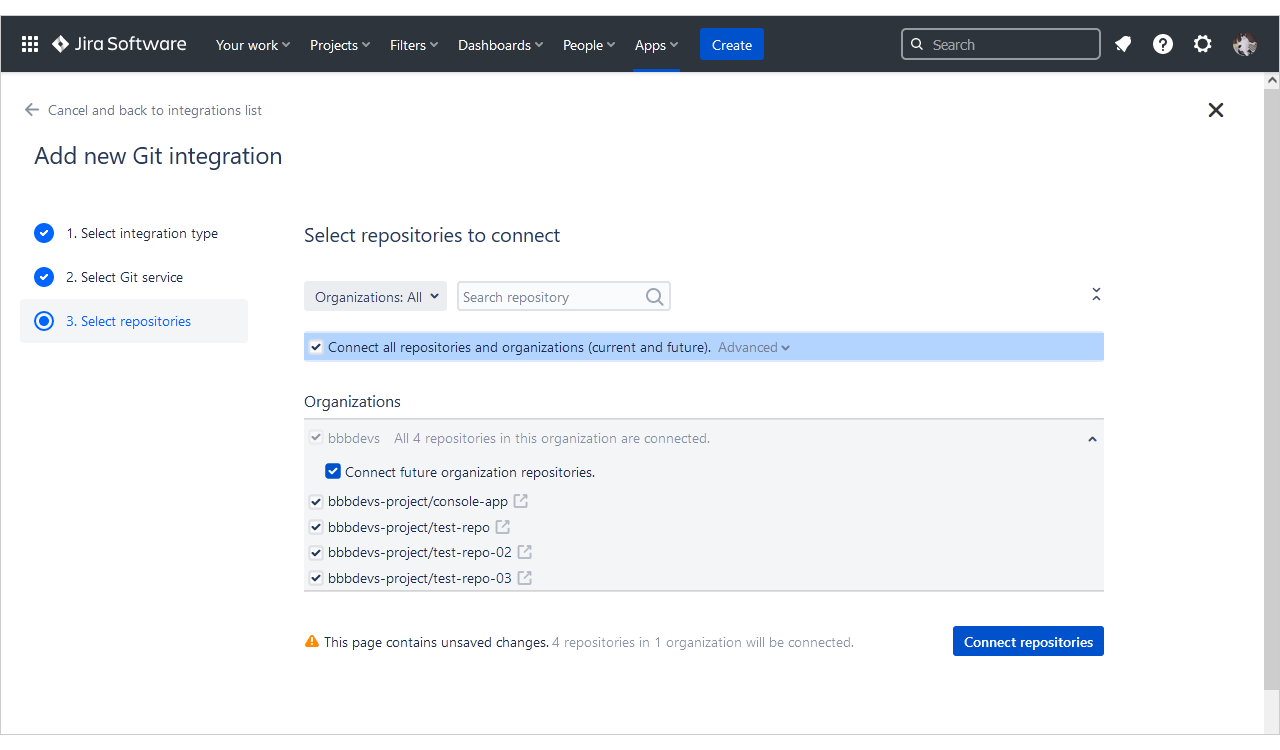
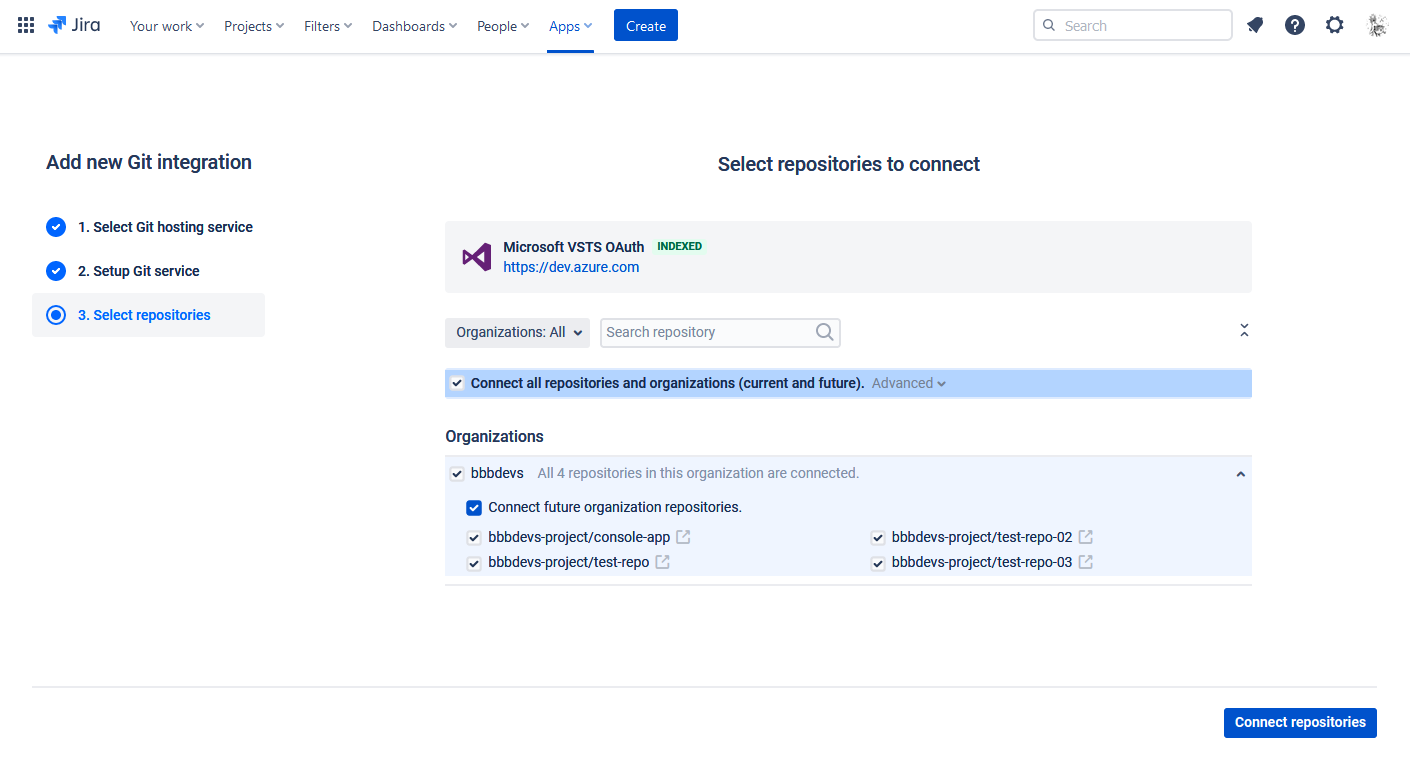
MK-300 GIT-5048 Update format, fix links, fix missing imgs etc. Update old info/steps Update old screens/imgs

diff --git a/git-integration-for-jira-cloud/azure-devops-visual-studio-team-services-vsts-gij-cloud.md b/git-integration-for-jira-cloud/azure-devops-visual-studio-team-services-vsts-gij-cloud.md
@@ -47,13 +47,17 @@ The Git Integration for Jira app supports Azure Repos.
     - [Creating pull requests](#creating-pull-requests)
     - [Merging _branch_ to _master_](#merging-branch-tomaster)
 
+<br>
+<br>
 <hr>
+<br>
+<br>
 
 <div class='embed-container embed-container--16-10'>
     <iframe width='709' height='443' src='https://fast.wistia.com/embed/iframe/n840jfrer4?videoFoam=true' frameborder='0' allowfullscreen ></iframe>
 </div>
 
-<div align='center'>
+<div align='center' style='margin-top:15px; margin-bottom:30px;'>
     <i>Right click <a href='https://bigbrassband.wistia.com/medias/n840jfrer4'><b>here</b></a> to open this video in a new browser tab for more viewing options.</i>
 </div>
 <br>
@@ -102,7 +106,18 @@ Connecting Azure DevOps / VSTS accounts with Full feature integration enables us
 
 If you have not yet generated a personal access token (PAT), you can create one by following the simple steps in [this article](/git-integration-for-jira-cloud/creating-personal-access-tokens-gij-cloud) – use the table of content anchor link to go to the Azure DevOps / VSTS section.
 
-This step is **highly required** for Azure DevOps/ VSTS integrations connected via the Full feature integrations panel.
+<div class="bbb-callout bbb--tip">
+    <div class="irow">
+    <div class="ilogobox">
+        <span class="logoimg"></span>
+    </div>
+    <div class="imsgbox">
+        
+    </div>
+    </div>
+</div>
+
+This step is <b>highly required</b> for Azure DevOps/ VSTS integrations connected via the Git service integrations panel.
 
 ### Authenticate with OAuth (recommended)
 
@@ -116,19 +131,21 @@ We recommend using the Git service integration panel to connect multiple reposit
 
 2.  On the Manage integrations page, click **Add integration.**
 
-    ![](/wp-content/uploads/gij-gitcloud-managed-ui-webhook-idx-setup-c.png version=1&modificationDate=1649811242005&cacheVersion=1&api=v2)
+    ![](/wp-content/uploads/gij-gitcloud-managed-ui-webhook-idx-setup-c.png)
 
-3.  On the following screen, click on the **Git service integration** panel for your integration type.
+3.  For the following screen, click **Visual Studio Team Services (VSTS)** to start integration with this git service. If you're using Azure Repos, choose that instead.
 
-    ![](/wp-content/uploads/gij-gitcloud-managed-ui-git-service-sel-c.png)
+    ![](/wp-content/uploads/gij-gitcloud-managed-ui-git-integration-azure-vsts.png)
 
 4.  The following screen is displayed.
 
-    ![](/wp-content/uploads/gij-gitcloud-integration-azure-vsts-oauth-connect(c).png)
+    ![](/wp-content/uploads/gij-gitcloud-managed-ui-gitlab-integration-oauth-vsts-sel.png)
 
-    *   For Git hosting service, scroll to _Microsoft using OAuth_, select **Visual Studio Team Services (VSTS)**. If you are using **Azure DevOps Repos**, choose that instead.
+    *   We recommend the PAT integration for this git service. This uses personal access tokens to setup Azure/VSTS integrations. Users will have to configure their own PAT from Azure/VSTS to use for this setup.
 
-    *   Configuring the **Advanced** settings is optional. This setting is used with integration to retrieve the list of tracked repositories. Set a filter that will only load some cloned repositories which can be viewed in the Manage repositories page. However, admins/power users may set how the project listing is displayed on the following:
+    *   For Microsoft webhook indexing integration, see [this article](/git-integration-for-jira-cloud/microsoft-webhook-indexing-integration-gij-cloud) instead.
+
+    *   Configuring the **Advanced** settings is optional. However, admins/power users may set how the project listing is displayed. These settings are used with integration to retrieve the list of tracked repositories. Set a filter that will only load some cloned repositories which can be viewed in the Manage repositories page.
 
         <img src='/wp-content/uploads/gij-gitcloud-integration-advanced-vsts-azure-options-c.png' width=510 height=163 style='margin:25px 0;max-width:100%' />
 
@@ -144,7 +161,7 @@ We recommend using the Git service integration panel to connect multiple reposit
 
         *   To learn more examples, see article [Jira Cloud: Working with JMESPath Filters](/git-integration-for-jira-cloud/working-with-jmespath-filters-gij-cloud).
 
-5.  Click **Connect Azure Repos/VSTS** to continue.
+5.  Click **Connect VSTS** to continue. (For Azure Repos integration, click **Connect Azure Repos**.)
 
 6.  Login to your Microsoft account, if prompted. We recommend creating a new Microsoft user and setting specific permissions for use with Jira Cloud. The following authentication screen is displayed.
 
@@ -171,7 +188,7 @@ This process requires an existing Microsoft account with Azure DevOps/VSTS **gi
 
 We recommend using the Full feature integrations panel to connect multiple repositories from your Azure DevOps/VSTS account.
 
-1.  On the Jira Cloud dashboard menu, go to **Apps ➜ Git Integration: Manage integrations**.
+1.  On the Jira Cloud dashboard menu, go to Apps ➜ **Git Integration: Manage integrations**.
 
     ![](/wp-content/uploads/gij-gitcloud-jira-apps-manage-integrations-sel-c.png)
 
@@ -179,15 +196,13 @@ We recommend using the Full feature integrations panel to connect multiple repos
 
     ![](/wp-content/uploads/gij-gitcloud-managed-ui-webhook-idx-setup-c.png)
 
-3.  On the following screen, click on the **Git service integration** panel for your integration type.
+3.  For the following screen, click **Visual Studio Team Services (VSTS)** to start integration with this git service. If you're using Azure Repos, choose that instead.
 
-    ![](/wp-content/uploads/gij-gitcloud-managed-ui-git-service-sel-c.png)
+    ![](/wp-content/uploads/gij-gitcloud-managed-ui-git-integration-azure-vsts.png)
 
-4.  The following screen is displayed.
+4.  For the following screen, click on the **PAT** integration type.
 
-    ![](/wp-content/uploads/gij-gitcloud-integration-azure-vsts-pat-connect-sel-c.png)
-
-    *   For Git hosting service, scroll to _Microsoft using PAT_, select **Visual Studio Team Services (VSTS)**. If you are using **Azure DevOps Repos**, choose that instead.
+    ![](/wp-content/uploads/gij-gitcloud-managed-ui-gitlab-integration-pat-vsts-sel.png)
 
     *   Enter the personal access token on the provided box.
 
@@ -215,7 +230,7 @@ We recommend using the Full feature integrations panel to connect multiple repos
 
 7.  The Git Integration for Jira Cloud app will read all available repositories from your Azure DevOps/VSTS git service account. The following screen is displayed.
 
-    ![](/wp-content/uploads/gij-gitcloud-integration-azure-vsts-repo-sel-c.png)
+    ![](/wp-content/uploads/gij-gitcloud-integration-azure-vsts-repo-pat-sel.png)
 
     *   Currently, all available accounts are scanned and corresponding URLs are created internally. Repositories of the logged-in Microsoft user can be automatically connected to Jira Cloud. Repositories that are added or removed from Azure DevOps/VSTS will be likewise connected or disconnected from Jira Cloud.
 

diff --git a/git-integration-for-jira-cloud/gitlab-com-gij-cloud.md b/git-integration-for-jira-cloud/gitlab-com-gij-cloud.md
@@ -147,8 +147,6 @@ We recommend using the Git service integration panel[1](#logo) to connect multip
 
 5.  For this guide, click on the GitLab **Personal Access Token** to select it.
 
-    *   Select **GitLab.com** from the Git hosting service dropdown list.
-
     *   We recommend the PAT integration for this git service. This uses personal access tokens to setup GitLab.com integrations. Users will have to configure their own PAT from GitLab.com to use for this setup.
 
     *   For admins/owners, repository managers, collaborators or users that have enabled 2FA, enter the PAT on the **Personal Access Token** field.
